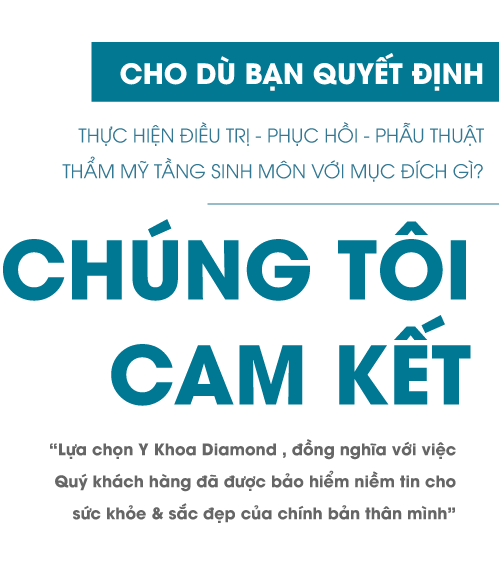
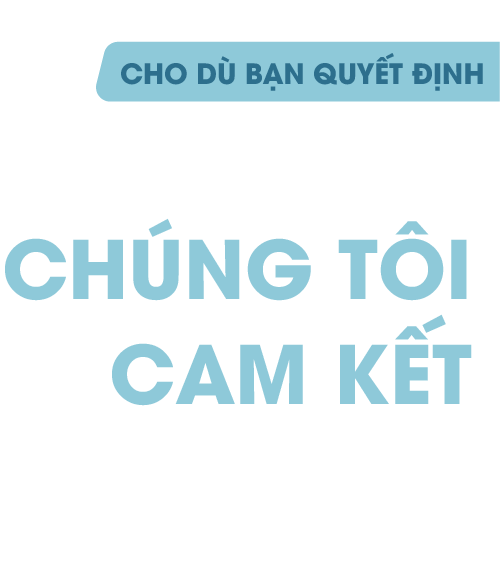
thammytangsinhmon edit lần 2

diff --git a/index.html b/index.html
@@ -12,62 +12,63 @@
 
 
     <!-- write your code here -->
-<style>
-    #animation_container {
-      position:relative;
-      margin:auto;
-      left:0;right:0;
-    }
-  </style>
-  <script>
-      // change the default namespace for the CreateJS libraries:
-      var createjs_01 = createjs_01||{};
-      var createjs = createjs_01;
-  </script>
-  <script src="https://code.createjs.com/1.0.0/createjs.min.js"></script>
-  <script src="banner_gif_1.js"></script>
-  <script>
-  var canvas, stage, exportRoot, anim_container, dom_overlay_container, fnStartAnimation;
-  function init() {
-      canvas = document.getElementById("canvas");
-      anim_container = document.getElementById("animation_container");
-      dom_overlay_container = document.getElementById("dom_overlay_container");
-      var comp=AdobeAn.getComposition("AAE1E8A77C475848B327CBA92B9ABA87");
-      var lib_01=comp.getLibrary();
-      var loader = new createjs_01.LoadQueue(false);
-      loader.addEventListener("fileload", function(evt){handleFileLoad(evt,comp)});
-      loader.addEventListener("complete", function(evt){handleComplete(evt,comp)});
-      var lib_01=comp.getLibrary();
-      loader.loadManifest(lib_01.properties.manifest);
-  }
-  function handleFileLoad(evt, comp) {
-      var images_01=comp.getImages();	
-      if (evt && (evt.item.type == "image")) { images_01[evt.item.id] = evt.result; }	
-  }
-  function handleComplete(evt,comp) {
-      //This function is always called, irrespective of the content. You can use the variable "stage" after it is created in token create_stage.
-      var lib_01=comp.getLibrary();
-      var ss=comp.getSpriteSheet();
-      var queue = evt.target;
-      var ssMetadata = lib_01.ssMetadata;
-      for(i=0; i<ssMetadata.length; i++) {
-          ss[ssMetadata[i].name] = new createjs.SpriteSheet( {"images": [queue.getResult(ssMetadata[i].name)], "frames": ssMetadata[i].frames} )
-      }
-      exportRoot = new lib_01.banner_gif_1();
-      stage = new lib_01.Stage(canvas);	
-      //Registers the "tick" event listener.
-      fnStartAnimation = function() {
-          stage.addChild(exportRoot);
-          createjs_01.Ticker.framerate = lib_01.properties.fps;
-          createjs_01.Ticker.addEventListener("tick", stage);
-      }	    
-      //Code to support hidpi screens and responsive scaling.
-      AdobeAn.makeResponsive(true,'both',false,1,[canvas,anim_container,dom_overlay_container]);	
-      AdobeAn.compositionLoaded(lib_01.properties.id);
-      fnStartAnimation();
-  }
-  </script>
-  <!-- write your code here -->
+    <style>
+        #animation_container {
+            position: relative;
+            margin: auto;
+            left: 0;
+            right: 0;
+        }
+    </style>
+    <script>
+        // change the default namespace for the CreateJS libraries:
+        var createjs_01 = createjs_01 || {};
+        var createjs = createjs_01;
+    </script>
+    <script src="https://code.createjs.com/1.0.0/createjs.min.js"></script>
+    <script src="banner_gif_1.js?1624268545253"></script>
+    <script>
+        var canvas, stage, exportRoot, anim_container, dom_overlay_container, fnStartAnimation;
+        function init() {
+            canvas = document.getElementById("canvas");
+            anim_container = document.getElementById("animation_container");
+            dom_overlay_container = document.getElementById("dom_overlay_container");
+            var comp = AdobeAn.getComposition("AAE1E8A77C475848B327CBA92B9ABA87");
+            var lib_01 = comp.getLibrary();
+            var loader = new createjs_01.LoadQueue(false);
+            loader.addEventListener("fileload", function (evt) { handleFileLoad(evt, comp) });
+            loader.addEventListener("complete", function (evt) { handleComplete(evt, comp) });
+            var lib_01 = comp.getLibrary();
+            loader.loadManifest(lib_01.properties.manifest);
+        }
+        function handleFileLoad(evt, comp) {
+            var images_01 = comp.getImages();
+            if (evt && (evt.item.type == "image")) { images_01[evt.item.id] = evt.result; }
+        }
+        function handleComplete(evt, comp) {
+            //This function is always called, irrespective of the content. You can use the variable "stage" after it is created in token create_stage.
+            var lib_01 = comp.getLibrary();
+            var ss = comp.getSpriteSheet();
+            var queue = evt.target;
+            var ssMetadata = lib_01.ssMetadata;
+            for (i = 0; i < ssMetadata.length; i++) {
+                ss[ssMetadata[i].name] = new createjs.SpriteSheet({ "images": [queue.getResult(ssMetadata[i].name)], "frames": ssMetadata[i].frames })
+            }
+            exportRoot = new lib_01.banner_gif_1();
+            stage = new lib_01.Stage(canvas);
+            //Registers the "tick" event listener.
+            fnStartAnimation = function () {
+                stage.addChild(exportRoot);
+                createjs_01.Ticker.framerate = lib_01.properties.fps;
+                createjs_01.Ticker.addEventListener("tick", stage);
+            }
+            //Code to support hidpi screens and responsive scaling.
+            AdobeAn.makeResponsive(true, 'both', false, 1, [canvas, anim_container, dom_overlay_container]);
+            AdobeAn.compositionLoaded(lib_01.properties.id);
+            fnStartAnimation();
+        }
+    </script>
+    <!-- write your code here -->
 
 </head>
 
@@ -76,11 +77,13 @@
 
     <!--Banner Gif 1-->
     <h2>Banner Gif 1</h2>
-	<div id="animation_container" style="background-color:rgba(255, 255, 255, 1.00); width:1500px; height:720px">
-		<canvas id="canvas" width="1500" height="720" style="position: absolute; display: block; background-color:rgba(255, 255, 255, 1.00);"></canvas>
-		<div id="dom_overlay_container" style="pointer-events:none; overflow:hidden; width:1500px; height:720px; position: absolute; left: 0px; top: 0px; display: block;">
-		</div>
-	</div>
+    <div id="animation_container" style="background-color:rgba(255, 255, 255, 1.00); width:1500px; height:720px">
+        <canvas id="canvas" width="1500" height="720"
+            style="position: absolute; display: block; background-color:rgba(255, 255, 255, 1.00);"></canvas>
+        <div id="dom_overlay_container"
+            style="pointer-events:none; overflow:hidden; width:1500px; height:720px; position: absolute; left: 0px; top: 0px; display: block;">
+        </div>
+    </div>
     <!--Banner Gif 1-->
 
     <!--Banner Gif 2-->
@@ -137,6 +140,7 @@
         </div>
     </div>
     <!--Banner 4 lý do-->
+
     <!--Đội ngũ bác sĩ-->
     <h2>Đội ngũ bác sĩ</h2>
     <div class="container">
@@ -144,7 +148,8 @@
             <div class="row">
                 <div class="col-sm-3 team-box">
                     <div class="team-content">
-                        <img src="/asset/doi_ngu_bac_si_2_bac_si_nam.svg" alt="Được Bộ Y Tế Cấp Phép Hoạt Động" class="team-icons">
+                        <img src="/asset/doi_ngu_bac_si_2_bac_si_nam.svg" alt="Được Bộ Y Tế Cấp Phép Hoạt Động"
+                            class="team-icons">
                         <p class="team-title">BS. TRẦN NGỌC HẢI</p>
                         <p class="team-description">
                             Ban Cố Vấn<br>
@@ -152,10 +157,11 @@
                             Phó Giám Đốc BV Từ Dũ</p>
                     </div>
                 </div>
-                 
+
                 <div class="col-sm-3 team-box">
                     <div class="team-content">
-                        <img src="/asset/doi_ngu_bac_si_1_bac_si_nu.svg" alt="Được Bộ Y Tế Cấp Phép Hoạt Động" class="team-icons">
+                        <img src="/asset/doi_ngu_bac_si_1_bac_si_nu.svg" alt="Được Bộ Y Tế Cấp Phép Hoạt Động"
+                            class="team-icons">
                         <p class="team-title">BS. ĐỖ THỊ LỆ CHI</p>
                         <p class="team-description">
                             Ban Cố Vấn<br>
@@ -163,20 +169,22 @@
                             Nguyên BS Phó Trưởng Khoa BV Từ Dũ</p>
                     </div>
                 </div>
-                 
+
                 <div class="col-sm-3 team-box">
                     <div class="team-content">
-                        <img src="/asset/doi_ngu_bac_si_1_bac_si_nu.svg" alt="Được Bộ Y Tế Cấp Phép Hoạt Động" class="team-icons">
+                        <img src="/asset/doi_ngu_bac_si_1_bac_si_nu.svg" alt="Được Bộ Y Tế Cấp Phép Hoạt Động"
+                            class="team-icons">
                         <p class="team-title">BS. NGUYỄN THỊ TUYẾT ANH</p>
                         <p class="team-description">
                             BS CKII - Sản Phụ Khoa<br>
                             Nguyên BS BV Đại Học Y Dược TP.HCM<br>
                     </div>
                 </div>
-                 
+
                 <div class="col-sm-3 team-box">
                     <div class="team-content">
-                        <img src="/asset/doi_ngu_bac_si_1_bac_si_nu.svg" alt="Được Bộ Y Tế Cấp Phép Hoạt Động" class="team-icons">
+                        <img src="/asset/doi_ngu_bac_si_1_bac_si_nu.svg" alt="Được Bộ Y Tế Cấp Phép Hoạt Động"
+                            class="team-icons">
                         <p class="team-title">BS. HOÀNG THỊ THỦY</p>
                         <p class="team-description">
                             BS CKI - Sản Phụ Khoa<br>
@@ -188,7 +196,21 @@
             </div>
         </div>
     </div>
-    <!--Banner 4 lý do-->
+    <!--Đội ngũ bác sĩ-->
+
+    <!--Icon hỏi đáp-->
+    <h2>ICON HỎI ĐÁP</h2>
+    <div class="container">
+        <div class="row">
+            <div class="col-sm-5">
+                <img src="/asset/icon_hoi_dap_hoi_dap_bac_si.svg" style="width: 100%;">
+            </div>
+            <div class="col-sm-5">
+                <img src="asset/icon_hoi_dap_hoi_dap_khach_hang.svg" style="width: 100%;">
+            </div>
+        </div>
+    </div>
+    <!--Icon hỏi đáp-->
 
 
     <script>

diff --git a/banner_gif_1.js b/banner_gif_1.js
@@ -3,7 +3,8 @@
 var p; // shortcut to reference prototypes
 var lib={};var ss={};var img={};
 lib.ssMetadata = [
-		{name:"banner_gif_1_atlas_", frames: [[0,0,689,572],[1174,0,228,187],[691,0,481,471],[691,473,393,77]]}
+		{name:"banner_gif_1_atlas_", frames: [[0,0,1500,1055]]},
+		{name:"banner_gif_1_atlas_2", frames: [[0,0,689,572],[1174,0,228,187],[691,0,481,471],[691,473,393,77]]}
 ];
 
 
@@ -12,34 +13,35 @@ lib.ssMetadata = [
 
 
 (lib.flash0ai = function() {
-	this.initialize(img.flash0ai);
-}).prototype = p = new cjs.Bitmap();
-p.nominalBounds = new cjs.Rectangle(0,0,1708,1000);
-
-
-(lib.flash0ai_1 = function() {
 	this.initialize(ss["banner_gif_1_atlas_"]);
 	this.gotoAndStop(0);
 }).prototype = p = new cjs.Sprite();
 
 
 
+(lib.flash0ai_1 = function() {
+	this.initialize(ss["banner_gif_1_atlas_2"]);
+	this.gotoAndStop(0);
+}).prototype = p = new cjs.Sprite();
+
+
+
 (lib.flash0ai_2 = function() {
-	this.initialize(ss["banner_gif_1_atlas_"]);
+	this.initialize(ss["banner_gif_1_atlas_2"]);
 	this.gotoAndStop(1);
 }).prototype = p = new cjs.Sprite();
 
 
 
 (lib.flash0ai_3 = function() {
-	this.initialize(ss["banner_gif_1_atlas_"]);
+	this.initialize(ss["banner_gif_1_atlas_2"]);
 	this.gotoAndStop(2);
 }).prototype = p = new cjs.Sprite();
 
 
 
 (lib.flash0ai_4 = function() {
-	this.initialize(ss["banner_gif_1_atlas_"]);
+	this.initialize(ss["banner_gif_1_atlas_2"]);
 	this.gotoAndStop(3);
 }).prototype = p = new cjs.Sprite();
 // helper functions:
@@ -123,7 +125,7 @@ function getMCSymbolPrototype(symbol, nominalBounds, frameBounds) {
 	this._renderFirstFrame();
 
 }).prototype = p = new cjs.MovieClip();
-p.nominalBounds = new cjs.Rectangle(750,360,958,640);
+p.nominalBounds = new cjs.Rectangle(750,360,834,695);
 // library properties:
 lib.properties = {
 	id: 'AAE1E8A77C475848B327CBA92B9ABA87',
@@ -133,8 +135,8 @@ lib.properties = {
 	color: "#FFFFFF",
 	opacity: 1.00,
 	manifest: [
-		{src:"images/flash0ai.png", id:"flash0ai"},
-		{src:"images/banner_gif_1_atlas_.png", id:"banner_gif_1_atlas_"}
+		{src:"images/banner_gif_1_atlas_.png?1624268545229", id:"banner_gif_1_atlas_"},
+		{src:"images/banner_gif_1_atlas_2.png?1624268545229", id:"banner_gif_1_atlas_2"}
 	],
 	preloads: []
 };

diff --git a/Snippets/banner_gif_1.html b/Snippets/banner_gif_1.html
@@ -26,7 +26,7 @@
 	var createjs = createjs_01;
 </script>
 <script src="https://code.createjs.com/1.0.0/createjs.min.js"></script>
-<script src="banner_gif_1.js"></script>
+<script src="banner_gif_1.js?1624268545253"></script>
 <script>
 var canvas, stage, exportRoot, anim_container, dom_overlay_container, fnStartAnimation;
 function init() {

diff --git a/style.css b/style.css
@@ -390,7 +390,6 @@ canvas {
 
 .team-description {
     display: block;
-    margin-block-start: 0em;
     font-size: 1em;
     line-height: 1.6em;
     color: var(--text-normal-color);
